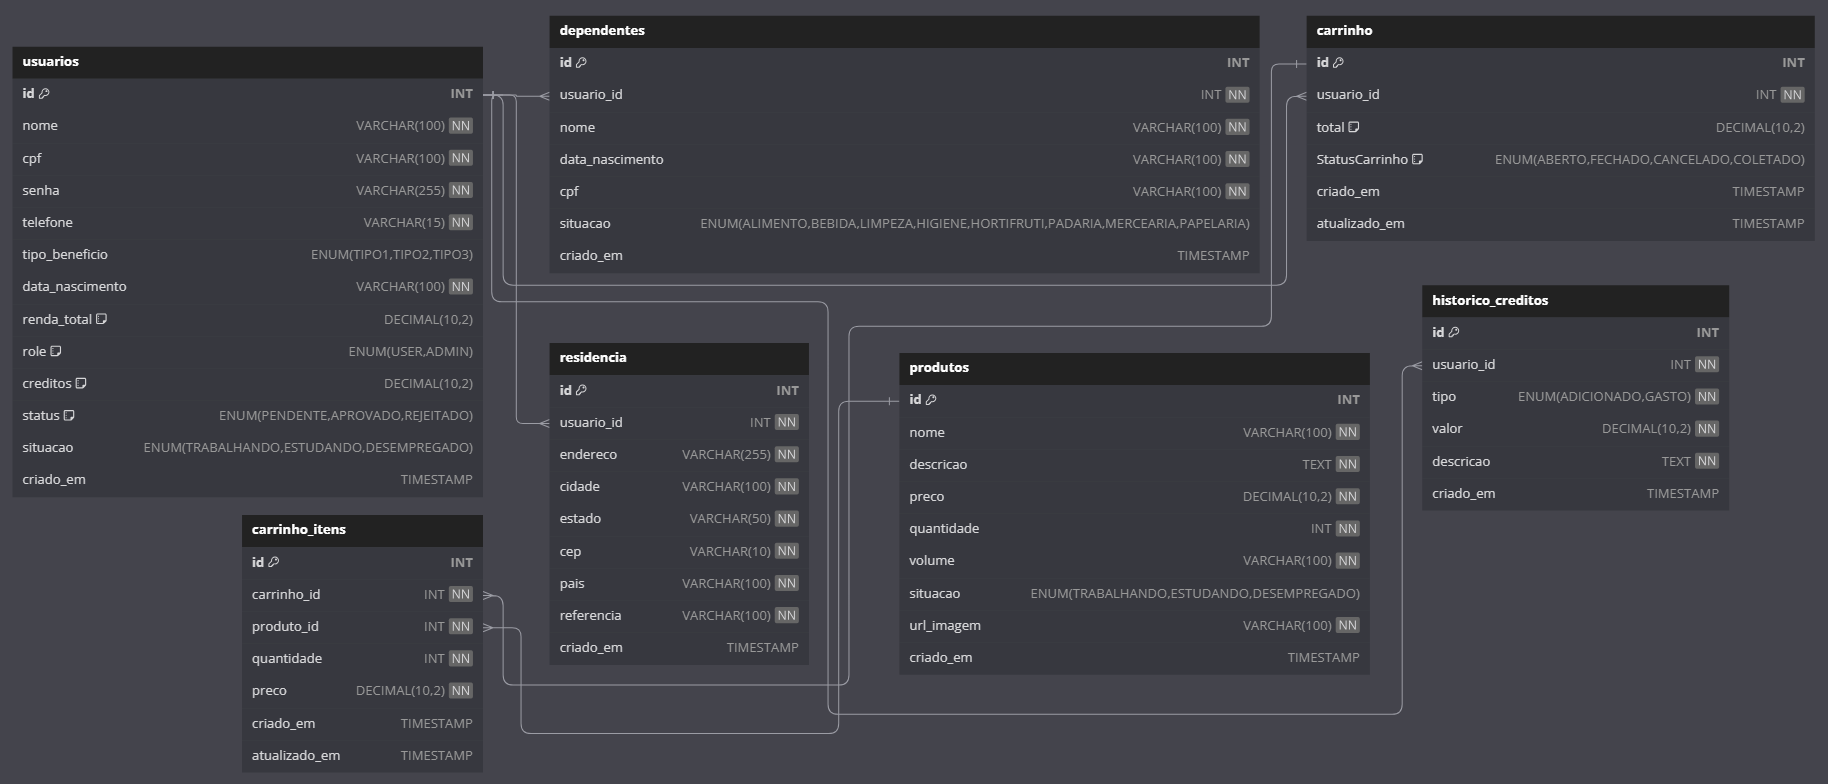
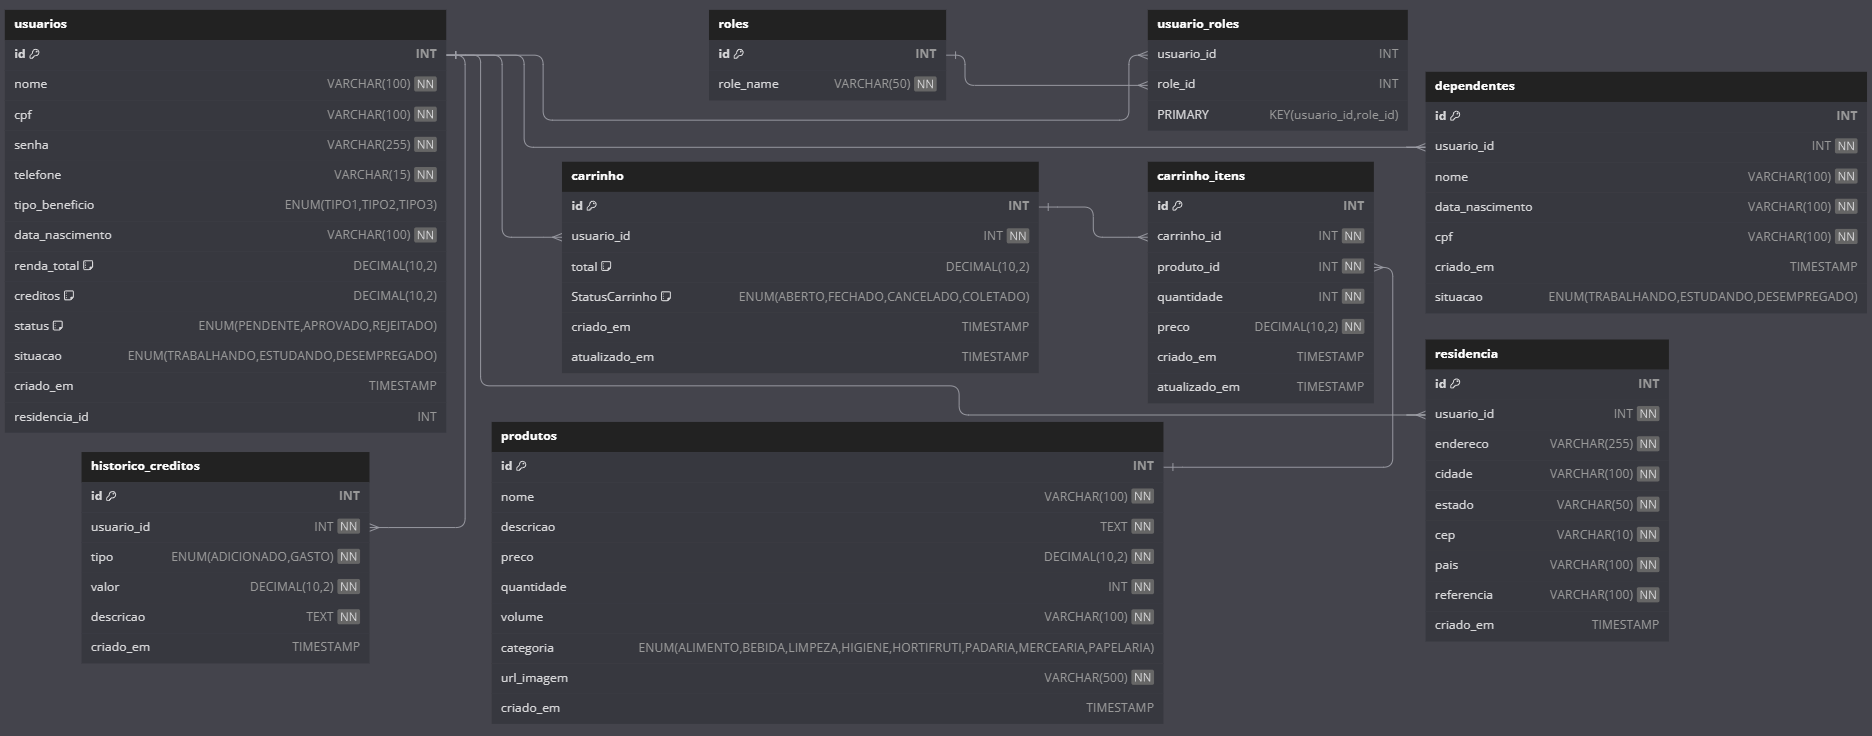
update Role

diff --git a/src/main/java/com/CestaSolidaria/domain/user/User.java b/src/main/java/com/CestaSolidaria/domain/user/User.java
@@ -4,30 +4,36 @@ import java.time.LocalDateTime;
 import java.util.Collection;
 
 import org.springframework.security.core.GrantedAuthority;
+import org.springframework.security.core.authority.SimpleGrantedAuthority;
 import org.springframework.security.core.userdetails.UserDetails;
 
 import com.CestaSolidaria.domain.user.dependente.Dependente;
 import com.CestaSolidaria.domain.user.dto.DataRegisterUser;
-import com.CestaSolidaria.domain.user.enums.Role;
 import com.CestaSolidaria.domain.user.enums.Situacao;
 import com.CestaSolidaria.domain.user.enums.Status;
 import com.CestaSolidaria.domain.user.enums.TipoBeneficio;
 import com.CestaSolidaria.domain.user.residencia.Residencia;
+import com.CestaSolidaria.domain.user.role.Role;
 
 import jakarta.persistence.CascadeType;
 import jakarta.persistence.Entity;
 import jakarta.persistence.EnumType;
 import jakarta.persistence.Enumerated;
+import jakarta.persistence.FetchType;
 import jakarta.persistence.GeneratedValue;
 import jakarta.persistence.GenerationType;
 import jakarta.persistence.Id;
 import jakarta.persistence.JoinColumn;
+import jakarta.persistence.JoinTable;
+import jakarta.persistence.ManyToMany;
 import jakarta.persistence.OneToMany;
 import jakarta.persistence.OneToOne;
 import jakarta.persistence.Table;
 
-import java.util.Collections;
+import java.util.HashSet;
 import java.util.List;
+import java.util.Set;
+import java.util.stream.Collectors;
 
 @Table(name = "usuarios")
 @Entity(name = "User")
@@ -53,8 +59,13 @@ public class User implements UserDetails{
 	@JoinColumn(name = "renda_total")
 	private double rendaTotal;
 	
-    @Enumerated(EnumType.STRING)
-    private Role role;
+    @ManyToMany(fetch = FetchType.EAGER)
+    @JoinTable(
+        name = "usuario_roles",
+        joinColumns = @JoinColumn(name = "usuario_id"),
+        inverseJoinColumns = @JoinColumn(name = "role_id")
+    )
+    private Set<Role> roles;
     
     private double creditos;
 
@@ -76,14 +87,15 @@ public class User implements UserDetails{
 	
 	public User() {}
 	
-	public User(DataRegisterUser dataRegisterUser) {
+	public User(DataRegisterUser dataRegisterUser, Role defaultRole) {
 		this.nome = dataRegisterUser.nome();
 		this.senha = dataRegisterUser.senha();
 		this.cpf = dataRegisterUser.cpf();
 		this.telefone = dataRegisterUser.telefone();
 		this.dataNascimento = dataRegisterUser.dataNascimento();
 		this.rendaTotal = dataRegisterUser.rendaTotal();
-		this.role = Role.USER;
+		this.roles = new HashSet<>();
+	    this.roles.add(defaultRole);
 		this.status = Status.PENDENTE;
 		this.situacao = dataRegisterUser.situacao();
 		this.creditos = 0;
@@ -154,14 +166,6 @@ public class User implements UserDetails{
 		this.rendaTotal = rendaTotal;
 	}
 
-	public Role getRole() {
-		return role;
-	}
-
-	public void setRole(Role role) {
-		this.role = role;
-	}
-
 	public double getCreditos() {
 		return creditos;
 	}
@@ -212,8 +216,9 @@ public class User implements UserDetails{
 
 	@Override
     public Collection<? extends GrantedAuthority> getAuthorities() {
-        return Collections.singletonList(role);
-    }
+        return roles.stream()
+                .map(role -> new SimpleGrantedAuthority(role.getName()))
+                .collect(Collectors.toList());    }
 	
 	@Override
 	public String getPassword() {

diff --git a/src/main/java/com/CestaSolidaria/domain/user/UserService.java b/src/main/java/com/CestaSolidaria/domain/user/UserService.java
@@ -16,6 +16,8 @@ import com.CestaSolidaria.domain.user.dto.DataRegisterUser;
 import com.CestaSolidaria.domain.user.enums.Status;
 import com.CestaSolidaria.domain.user.residencia.Residencia;
 import com.CestaSolidaria.domain.user.residencia.ResidenciaService;
+import com.CestaSolidaria.domain.user.role.Role;
+import com.CestaSolidaria.domain.user.role.RoleService;
 import com.CestaSolidaria.infra.security.TokenDataJWT;
 import com.CestaSolidaria.infra.security.TokenService;
 
@@ -37,11 +39,15 @@ public class UserService {
     private TokenService tokenService;
     
     @Autowired
+    private RoleService roleService;
+    
+    @Autowired
     private ResidenciaService residenciaService;
 	
 	public ResponseEntity<DataDeteilsUser> registerUsuario(DataRegisterUser data,
 								UriComponentsBuilder uriBuilder) {
-    	var user = new User(data);
+		Role role = roleService.findByNameRole("ADMIN");
+    	var user = new User(data, role);
     	user.setSenha(passwordCrypt(data.senha()));
     	userRepository.save(user);
     	Residencia residencia = new Residencia(data.residencia(),user);

diff --git a/src/main/java/com/CestaSolidaria/domain/user/role/Role.java b/src/main/java/com/CestaSolidaria/domain/user/role/Role.java
@@ -1,0 +1,52 @@
+package com.CestaSolidaria.domain.user.role;
+
+import java.util.Set;
+
+import com.CestaSolidaria.domain.user.User;
+
+import jakarta.persistence.Column;
+import jakarta.persistence.Entity;
+import jakarta.persistence.GeneratedValue;
+import jakarta.persistence.GenerationType;
+import jakarta.persistence.Id;
+import jakarta.persistence.ManyToMany;
+import jakarta.persistence.Table;
+
+@Entity
+@Table(name = "roles")
+public class Role {
+	
+    @Id
+    @GeneratedValue(strategy = GenerationType.IDENTITY)
+    private Long id;
+
+    @Column(name = "role_name", nullable = false, unique = true)
+    private String name;
+
+    @ManyToMany(mappedBy = "roles")
+    private Set<User> users;
+
+    public Long getId() {
+        return id;
+    }
+
+    public void setId(Long id) {
+        this.id = id;
+    }
+
+    public String getName() {
+		return name;
+	}
+
+	public void setName(String name) {
+		this.name = name;
+	}
+
+	public Set<User> getUsers() {
+        return users;
+    }
+
+    public void setUsers(Set<User> users) {
+        this.users = users;
+    }
+}

diff --git a/src/main/java/com/CestaSolidaria/controller/AdminController.java b/src/main/java/com/CestaSolidaria/controller/AdminController.java
@@ -59,13 +59,13 @@ public class AdminController {
 	//Produtos
 	
 	@Transactional
-    @PostMapping("/produto/novo")
+    @PostMapping("/produto")
     public ResponseEntity<DataDeteilsProduto> novoProduto(@Valid @RequestBody DataRegisterProduto produto){
 		return ResponseEntity.ok(produtoService.addProduto(produto));
 	}
 	
     @Transactional
-    @PutMapping("/produto/atualizar/{id}")
+    @PutMapping("/produto/{id}")
     public ResponseEntity<DataDeteilsProduto> updateProduto(@PathVariable Long id, @RequestBody DataUpdatedProduto produto){
 		return ResponseEntity.ok(produtoService.updatedProduto(id, produto));
     }

diff --git a/src/main/java/com/CestaSolidaria/infra/security/SecurityConfigurations.java b/src/main/java/com/CestaSolidaria/infra/security/SecurityConfigurations.java
@@ -26,7 +26,7 @@ public class SecurityConfigurations {
               http.csrf(csrf -> csrf.disable())
                 .sessionManagement(sm -> sm.sessionCreationPolicy(SessionCreationPolicy.STATELESS))
                 .authorizeHttpRequests(req -> {
-                	req.requestMatchers("/admin").hasAnyAuthority("ADMIN");
+                	req.requestMatchers("/admin", "/admin/**").hasAnyAuthority("ADMIN");
                 	req.requestMatchers("/publico").permitAll();
                     req.requestMatchers("user/login").permitAll();
                     req.requestMatchers("user/register").permitAll();

diff --git a/src/main/java/com/CestaSolidaria/domain/user/role/RoleService.java b/src/main/java/com/CestaSolidaria/domain/user/role/RoleService.java
@@ -1,0 +1,16 @@
+package com.CestaSolidaria.domain.user.role;
+
+import org.springframework.beans.factory.annotation.Autowired;
+import org.springframework.stereotype.Service;
+
+@Service
+public class RoleService {
+	
+	@Autowired
+	private RoleRepository roleRepository;
+
+	public Role findByNameRole(String role) {
+		return roleRepository.findByName(role).get();
+	}
+
+}

diff --git a/src/main/java/com/CestaSolidaria/domain/user/role/RoleRepository.java b/src/main/java/com/CestaSolidaria/domain/user/role/RoleRepository.java
@@ -1,0 +1,11 @@
+package com.CestaSolidaria.domain.user.role;
+
+import java.util.Optional;
+
+import org.springframework.data.jpa.repository.JpaRepository;
+
+public interface RoleRepository extends JpaRepository<Role, Long> {
+
+	Optional<Role> findByName(String name);
+
+}

diff --git a/src/main/java/com/CestaSolidaria/domain/produto/dto/DataRegisterProduto.java b/src/main/java/com/CestaSolidaria/domain/produto/dto/DataRegisterProduto.java
@@ -14,7 +14,7 @@ public record DataRegisterProduto(@NotNull
 								  int quantidade,
 								  @NotNull
 								  String volume,
-								  @NotNull
+
 								  Categoria categoria,
 								  @NotNull
 								  String urlImagem) {}

diff --git a/README.md b/README.md
@@ -1,39 +1,73 @@
 <h1>Cesta Solidária</h1>
-E um projeto de extensão desenvolvido em colaboração com uma igreja, com o objetivo de promover a inclusão social por meio da distribuição de cestas básicas para famílias em situação de vulnerabilidade. O projeto integra conhecimentos de <strong>Programação Orientada a Objetos em Java</strong>, <strong>Computação em Nuvem</strong>, e <strong>Banco de Dados</strong>.</p>
+<p>E um projeto de extensão desenvolvido em colaboração com uma igreja, com o objetivo de promover a inclusão social por meio da distribuição de cestas básicas para famílias em situação de vulnerabilidade. O projeto integra conhecimentos de <strong>Programação Orientada a Objetos em Java</strong>, <strong>Computação em Nuvem</strong>, e <strong>Banco de Dados</strong>.</p>
 
 <img id="diagrama" src="src/main/resources/static/images/cesta.png" alt="LOGO" width="500" height="500">
 
 <h2>Funcionalidades</h2>
-    <ol>
-        <li><strong>Cadastro e Login</strong>
-            <ul>
-                <li>Usuários podem se registrar e realizar login para acessar a plataforma.</li>
-            </ul>
-        </li>
-        <li><strong>Usuário</strong>
-            <ul>
-                <li>CRUD de Usuário: Gerenciamento completo dos dados do usuário.</li>
-                <li>CRUD de Residência: Cadastro e atualização dos dados de residência.</li>
-                <li>CRUD de Dependentes: Gerenciamento dos dependentes dos usuários.</li>
-                <li>A quantidade de créditos é determinada com base na renda per capita.</li>
-            </ul>
-        </li>
-        <li><strong>Administrador</strong>
-            <ul>
-                <li>CRUD de Produto: Gerenciamento de produtos disponíveis para compra.</li>
-                <li>Atualização de Estoque: Controle do estoque de produtos.</li>
-                <li>Histórico de Créditos: Registro de movimentações de créditos dos usuários.</li>
-                <li>Aprovação de Usuário: Controle de aprovação dos usuários para acesso ao sistema.</li>
-                <li>Sistema de Créditos: Créditos são concedidos aos usuários no dia 1º de cada mês.</li>
-            </ul>
-        </li>
-        <li><strong>Dados Públicos</strong>
-            <ul>
-                <li>Visualização de todos os produtos disponíveis, com detalhes de preço e quantidade em estoque.</li>
-                <li>QRCode para Doações: Geração de QR Code para doações à igreja via PIX.</li>
-            </ul>
-        </li>
-    </ol>
+<ol>
+    <li><strong>Cadastro e Login</strong>
+        <ul>
+            <li>Usuários podem se registrar e realizar login para acessar a plataforma.</li>
+        </ul>
+    </li>
+    <li><strong>Usuário</strong>
+        <ul>
+            <li>CRUD de Usuário: Gerenciamento completo dos dados do usuário.</li>
+            <li>CRUD de Residência: Cadastro e atualização dos dados de residência.</li>
+            <li>CRUD de Dependentes: Gerenciamento dos dependentes dos usuários.</li>
+            <li>A quantidade de créditos é determinada com base na renda per capita.</li>
+        </ul>
+    </li>
+    <li><strong>Administrador</strong>
+        <ul>
+            <li>CRUD de Produto: Gerenciamento de produtos disponíveis para compra.</li>
+            <li>Atualização de Estoque: Controle do estoque de produtos.</li>
+            <li>Histórico de Créditos: Registro de movimentações de créditos dos usuários.</li>
+            <li>Aprovação de Usuário: Controle de aprovação dos usuários para acesso ao sistema.</li>
+            <li>Sistema de Créditos: Créditos são concedidos aos usuários no dia 1º de cada mês.</li>
+        </ul>
+    </li>
+    <li><strong>Dados Públicos</strong>
+        <ul>
+            <li>Visualização de todos os produtos disponíveis, com detalhes de preço e quantidade em estoque.</li>
+            <li>QRCode para Doações: Geração de QR Code para doações à igreja via PIX.</li>
+        </ul>
+    </li>
+</ol>
+
+<h2>Instalação</h2>
+<p>Para instalar o projeto Cesta Solidária, siga os passos abaixo:</p>
+<ol>
+    <li><strong>Clone o repositório</strong>
+        <ul>
+            <li>Abra o terminal e execute o seguinte comando:</li>
+            <code>git clone https://github.com/0t4v14n0/CestaSolidaria.git</code>
+        </ul>
+    </li>
+    <li><strong>Crie o database no MySQL</strong>
+        <ul>
+            <li>Crie o database com esse comando:</li>
+            <code>create database cestaSolidaria;</code>
+        </ul>
+    </li>
+    <li><strong>Rode o projeto na sua IDE para a criação das tabelas</strong>
+        <ul>
+            <li>Certifique-se de ter o JDK (Java Development Kit) instalado.</li>
+            <li>Use uma IDE como IntelliJ IDEA ou Eclipse para rodar o projeto.</li>
+        </ul>
+    </li>
+    <li><strong>Inicie a tabela de roles</strong>
+        <ul>
+            <li>Execute o comando abaixo:</li>
+            <code>INSERT INTO roles (role_name) VALUES ('USER'), ('ADMIN');</code>
+        </ul>
+    </li>
+    <li><strong>Agora é só aproveitar</strong>
+        <ul>
+            <li>Por fim, execute o projeto novamente.</li>
+        </ul>
+    </li>
+</ol>
 
 <h2>Diagrama do Banco de Dados</h2>
 <img id="diagrama" src="src/main/resources/static/images/db.png" alt="Diagrama do Banco de Dados" width="900" height="500">
